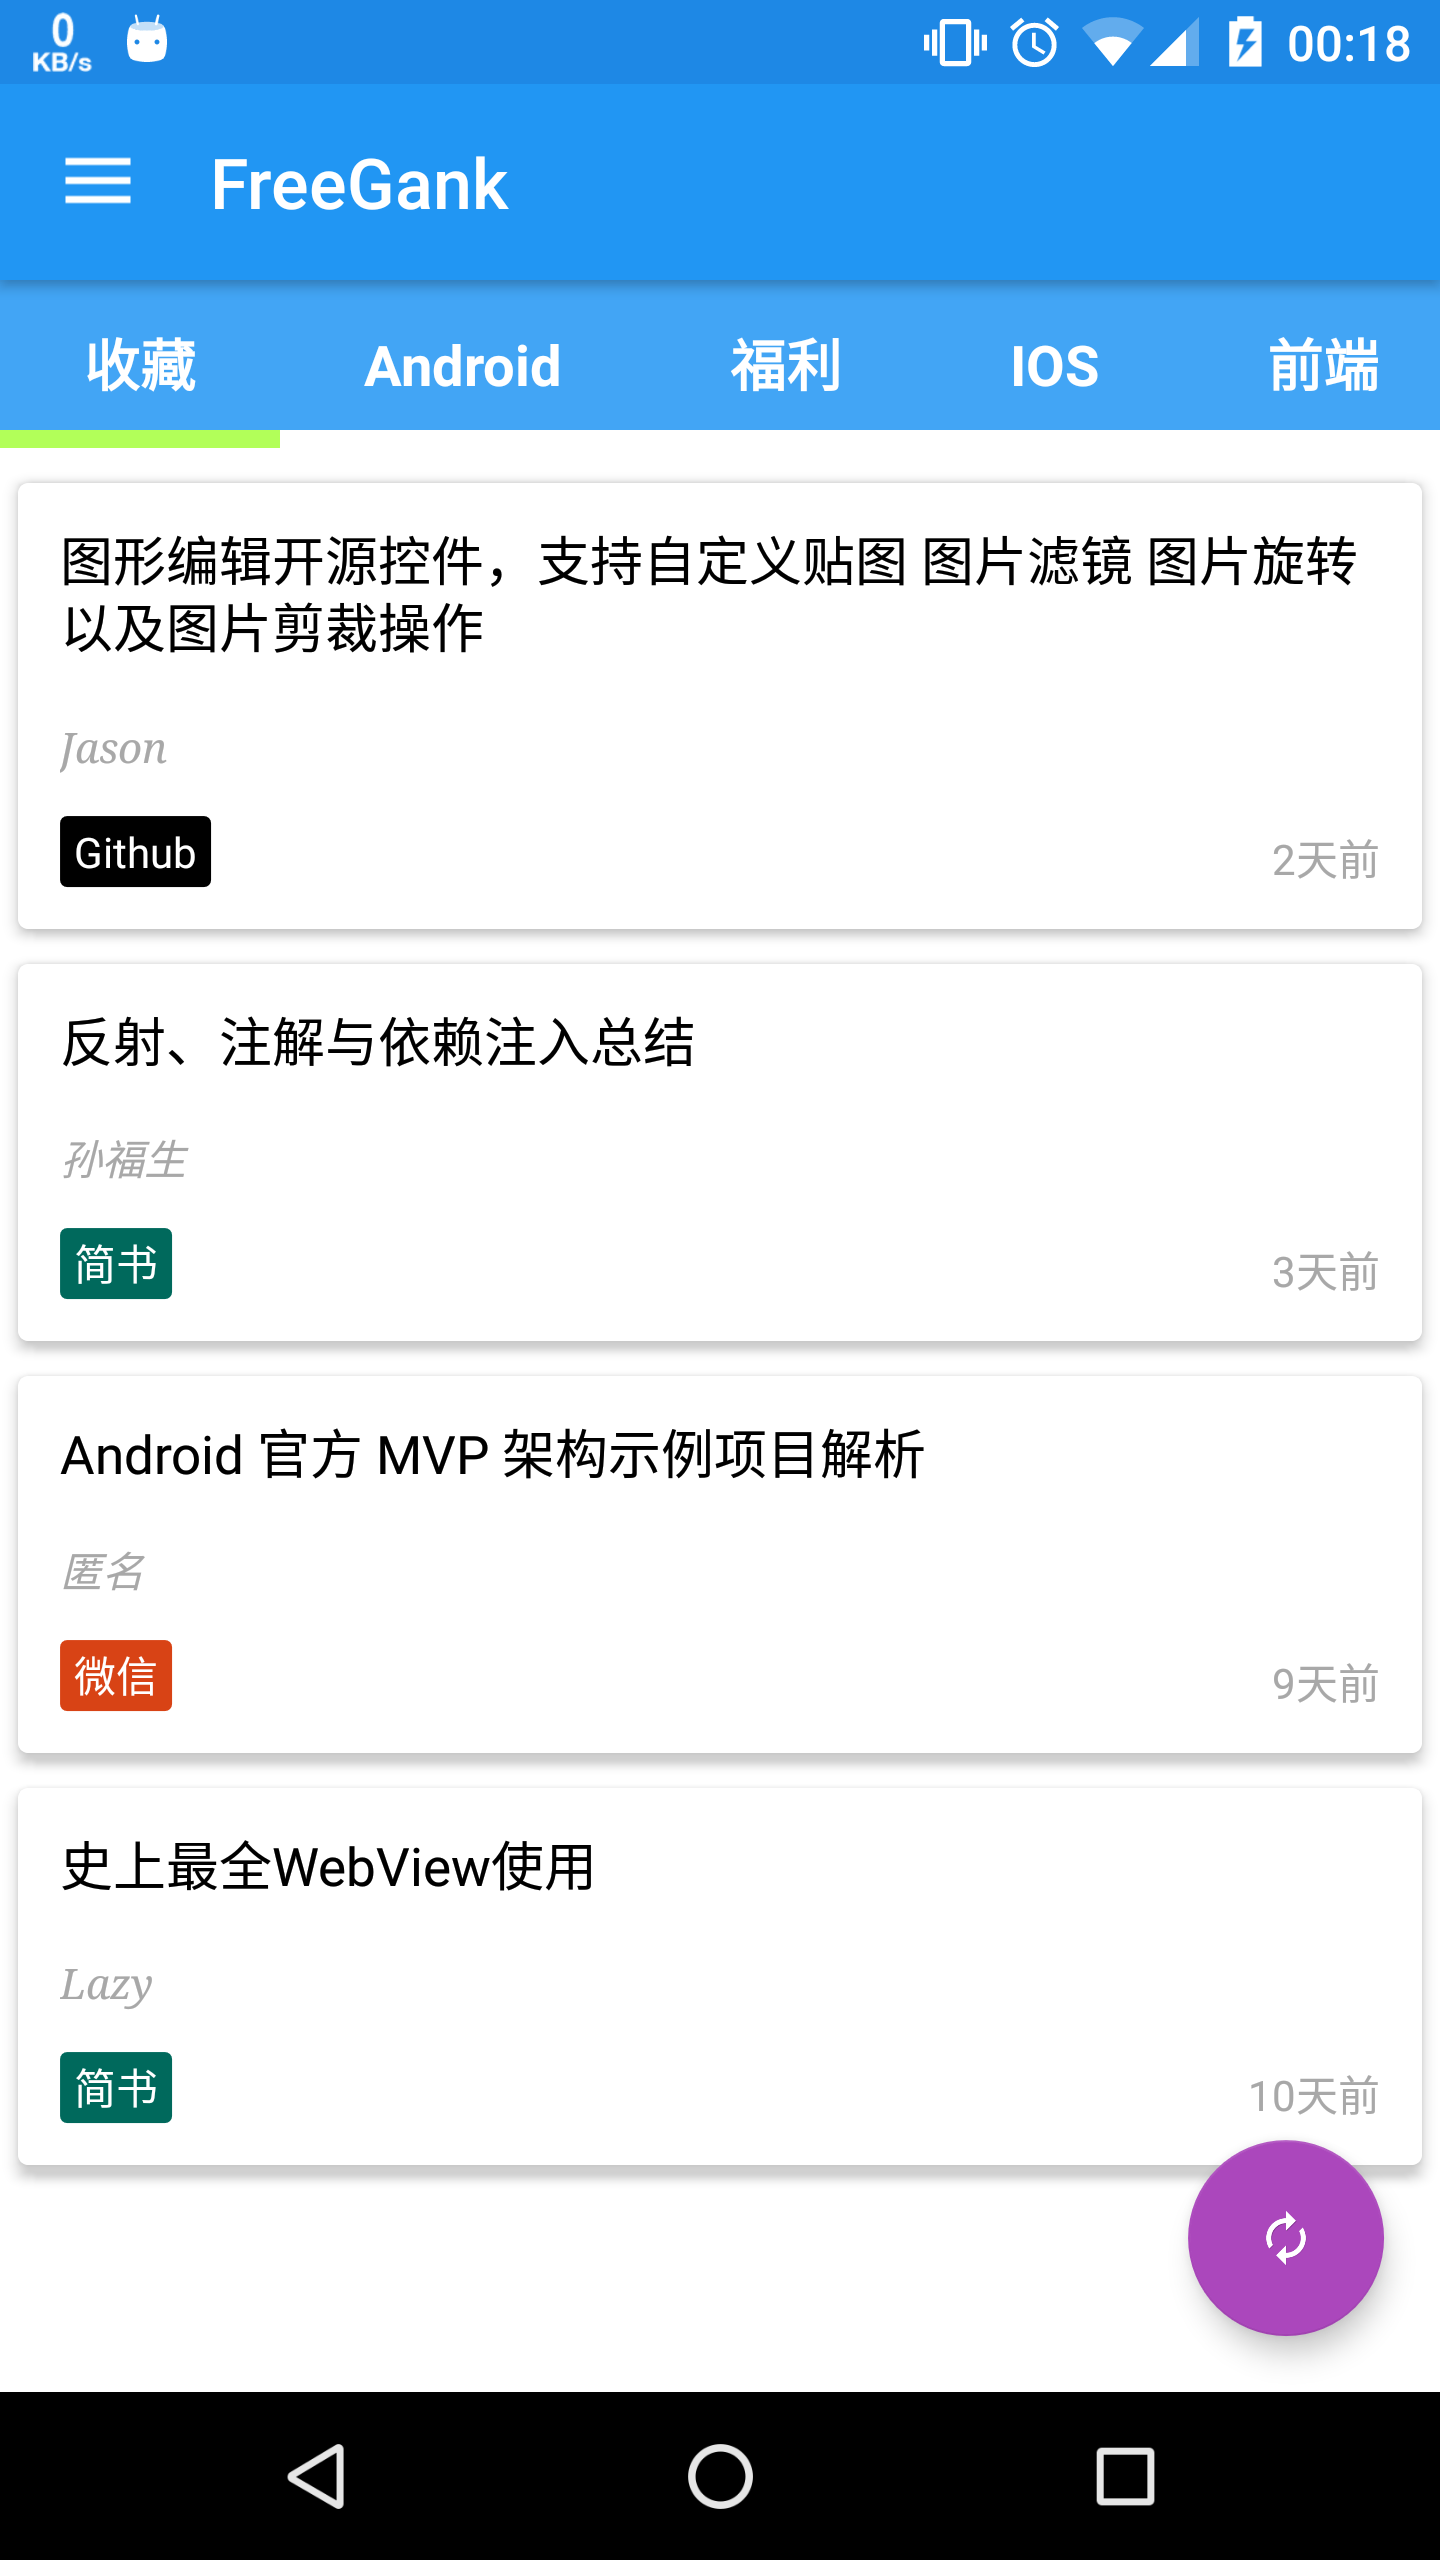
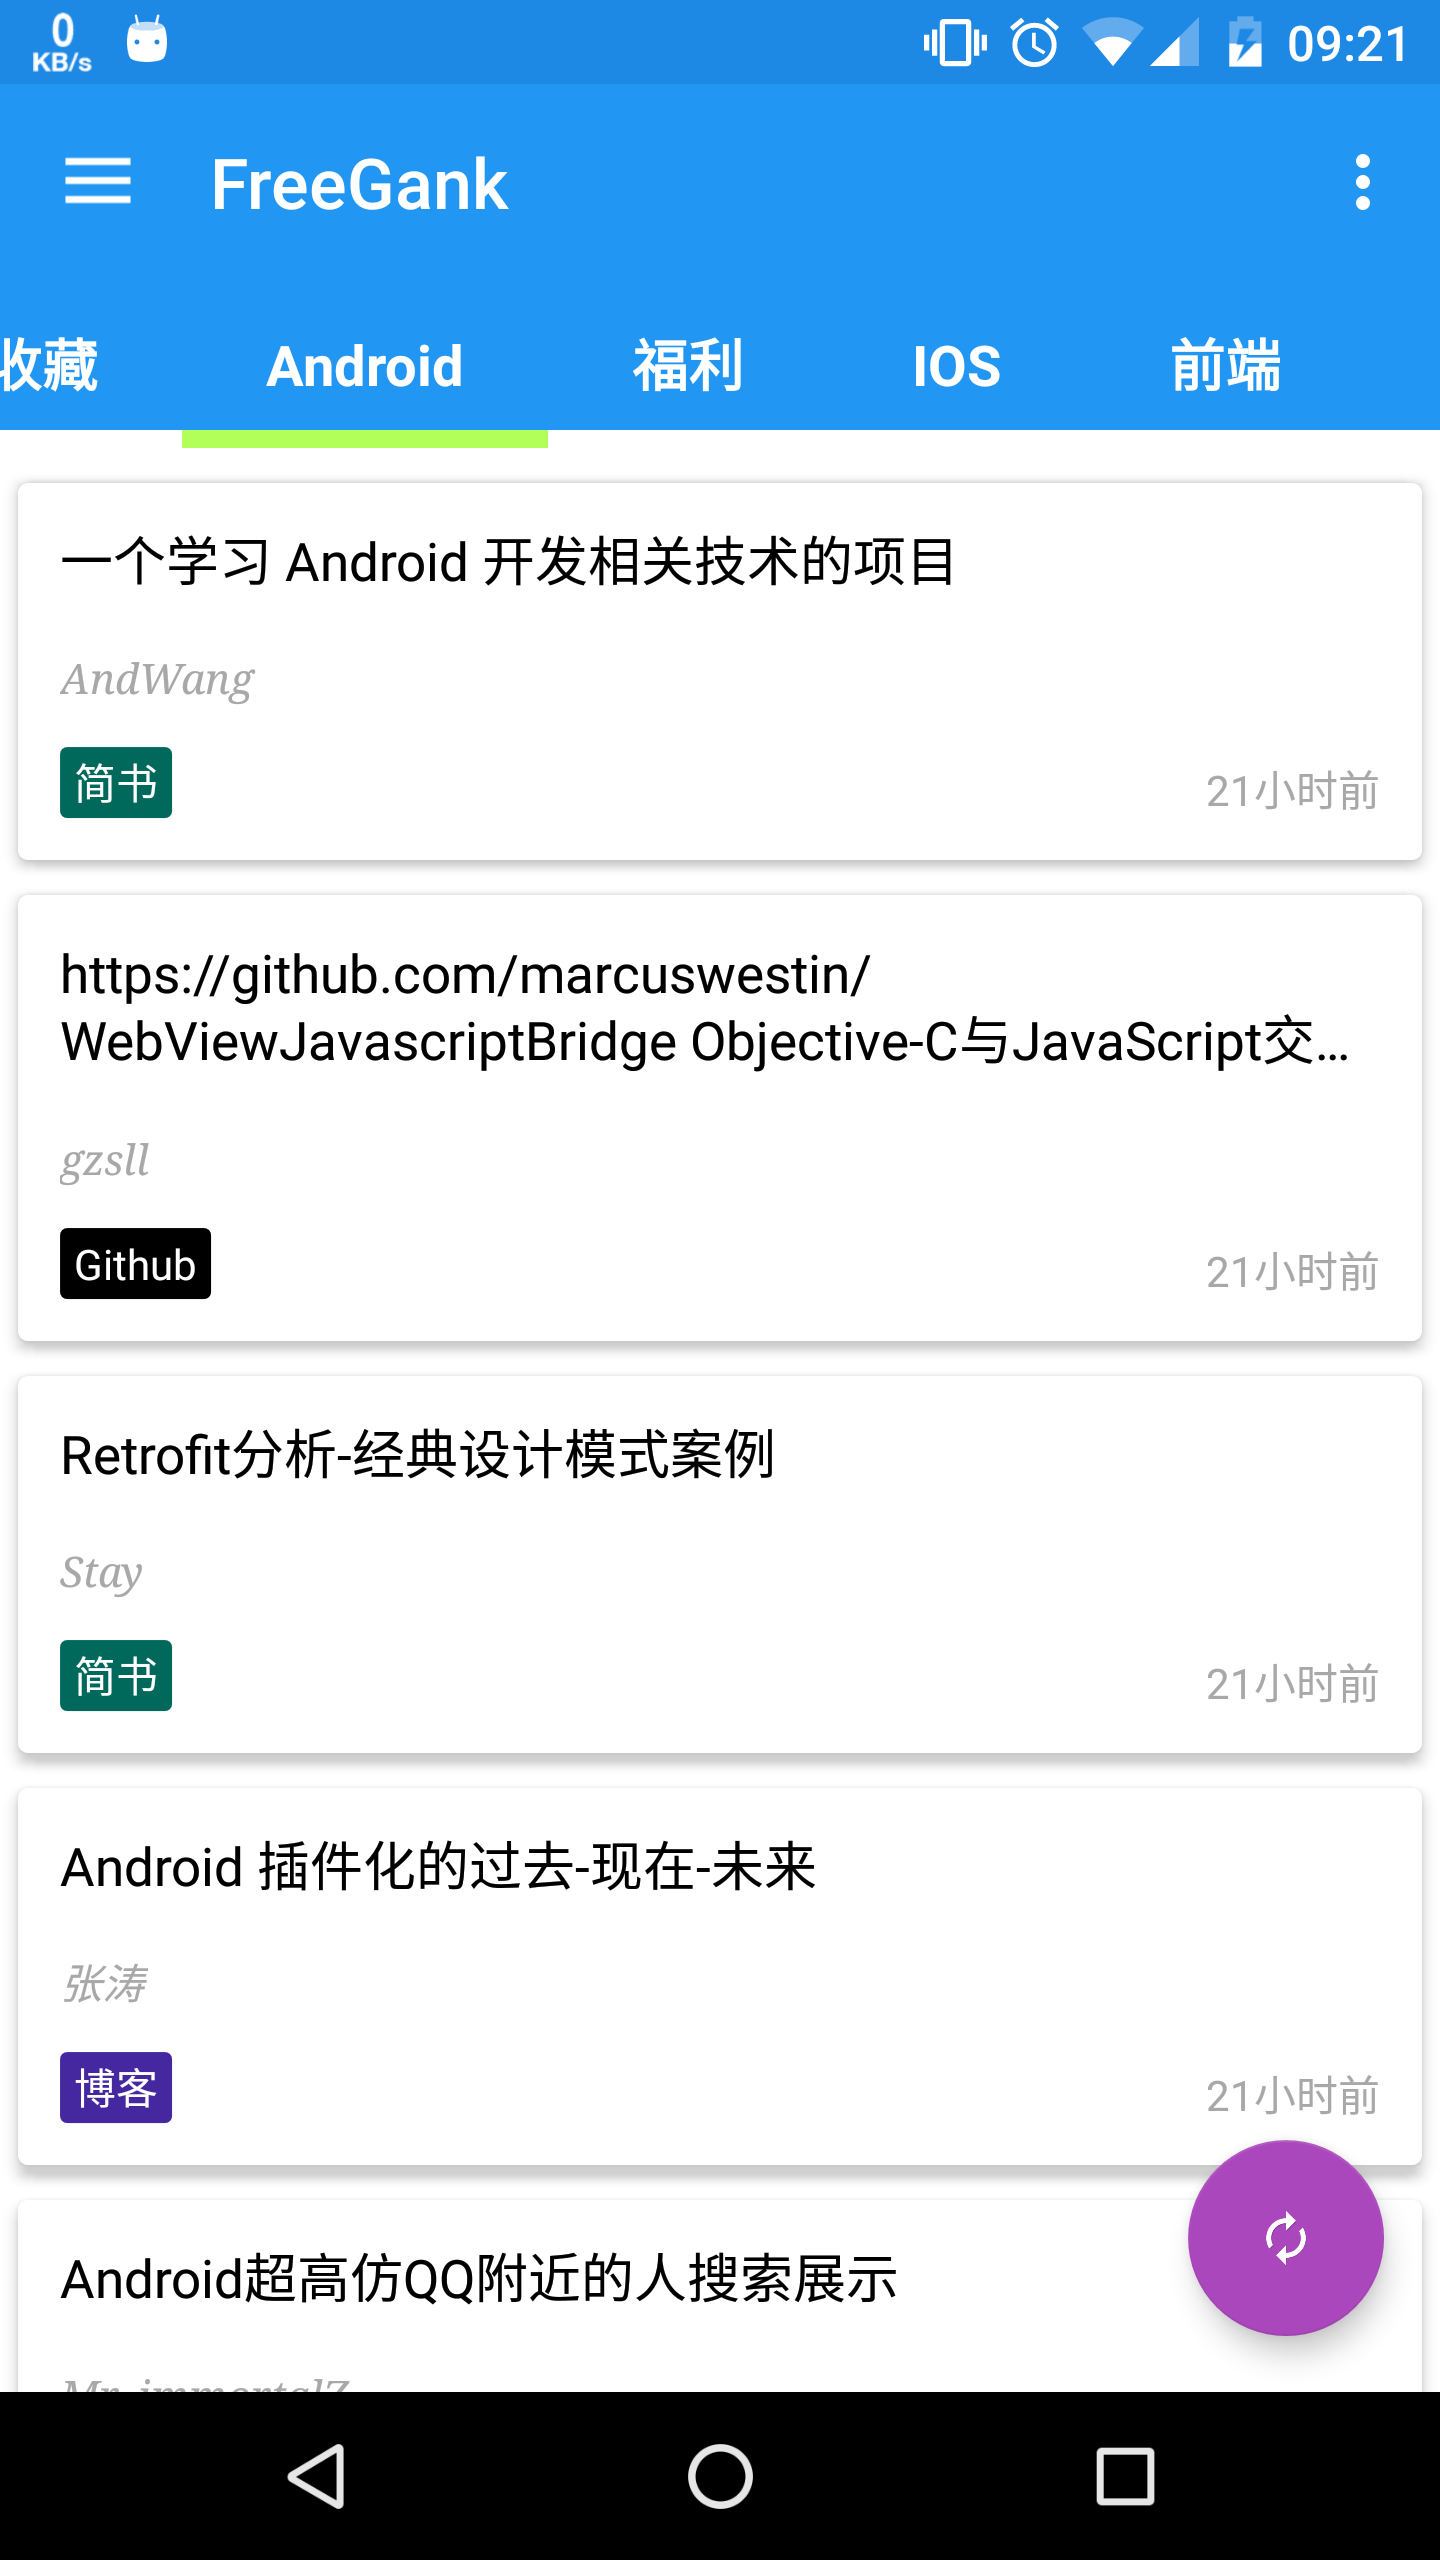
refine UI

diff --git a/app/src/main/java/com/hong/app/rxjavatest/MainActivity.java b/app/src/main/java/com/hong/app/rxjavatest/MainActivity.java
@@ -242,7 +242,7 @@ public class MainActivity extends AppCompatActivity implements NavigationView.On
         tabStrip.setTextColor(getResources().getColor(android.R.color.white));
         tabStrip.setTextSize(getTextSize());
         tabStrip.setDividerColor(getResources().getColor(android.R.color.transparent));
-        tabStrip.setBackgroundColor(getResources().getColor(R.color.tab_bg_color));
+        tabStrip.setBackgroundColor(getResources().getColor(R.color.colorPrimary));
         tabStrip.setIndicatorColor(getResources().getColor(R.color.tab_indicator_color));
         tabStrip.setUnderlineColor(getResources().getColor(android.R.color.white));
         tabStrip.setUnderlineHeight(tabStrip.getIndicatorHeight());

diff --git a/app/src/main/java/com/hong/app/rxjavatest/PrettyGirls/PrettyGirlCollectionActivity.java b/app/src/main/java/com/hong/app/rxjavatest/PrettyGirls/PrettyGirlCollectionActivity.java
@@ -1,6 +1,7 @@
 package com.hong.app.rxjavatest.PrettyGirls;
 
 import android.content.Intent;
+import android.content.res.Configuration;
 import android.os.Bundle;
 import android.support.annotation.Nullable;
 import android.support.v7.app.AppCompatActivity;
@@ -127,5 +128,10 @@ public class PrettyGirlCollectionActivity extends AppCompatActivity {
             super(itemView);
             ButterKnife.bind(this, itemView);
         }
+    }
+
+    @Override
+    public void onConfigurationChanged(Configuration newConfig) {
+        super.onConfigurationChanged(newConfig);
     }
 }
